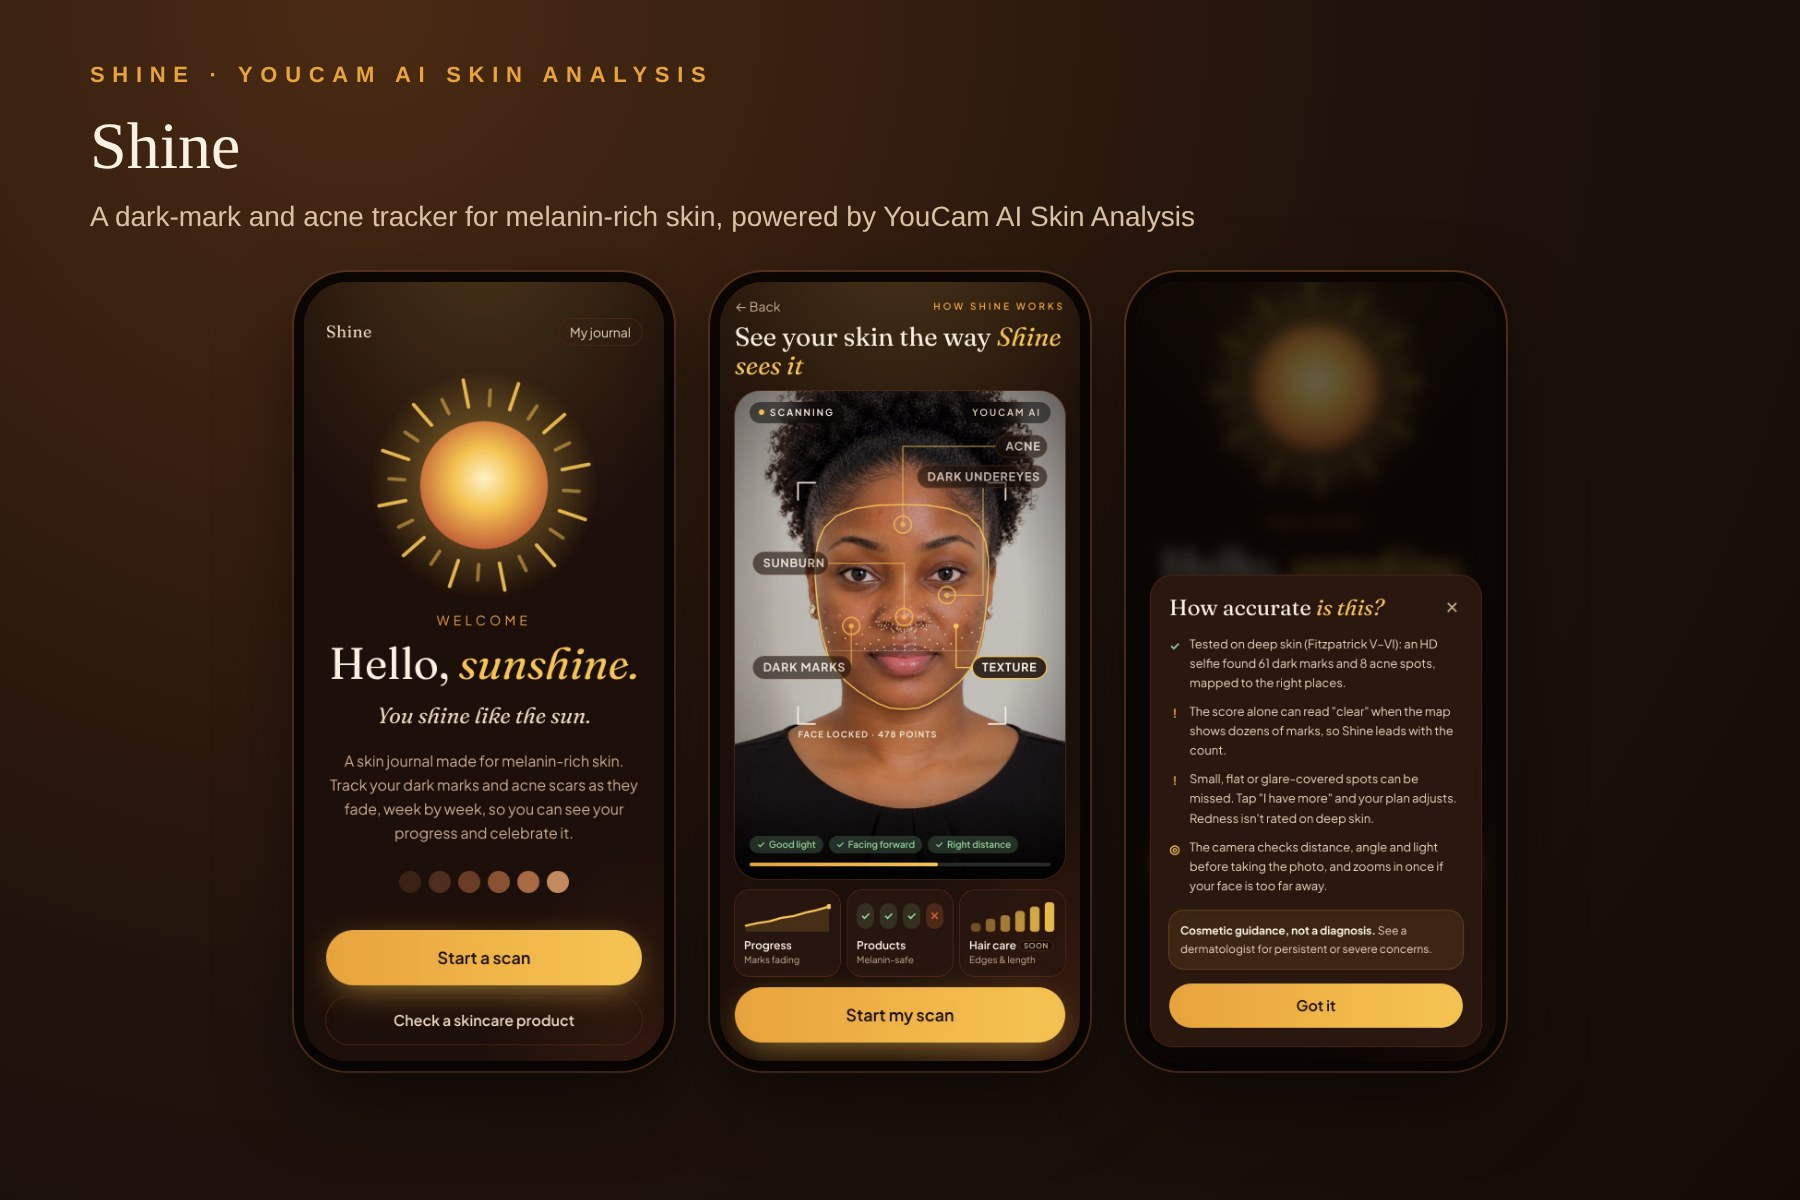
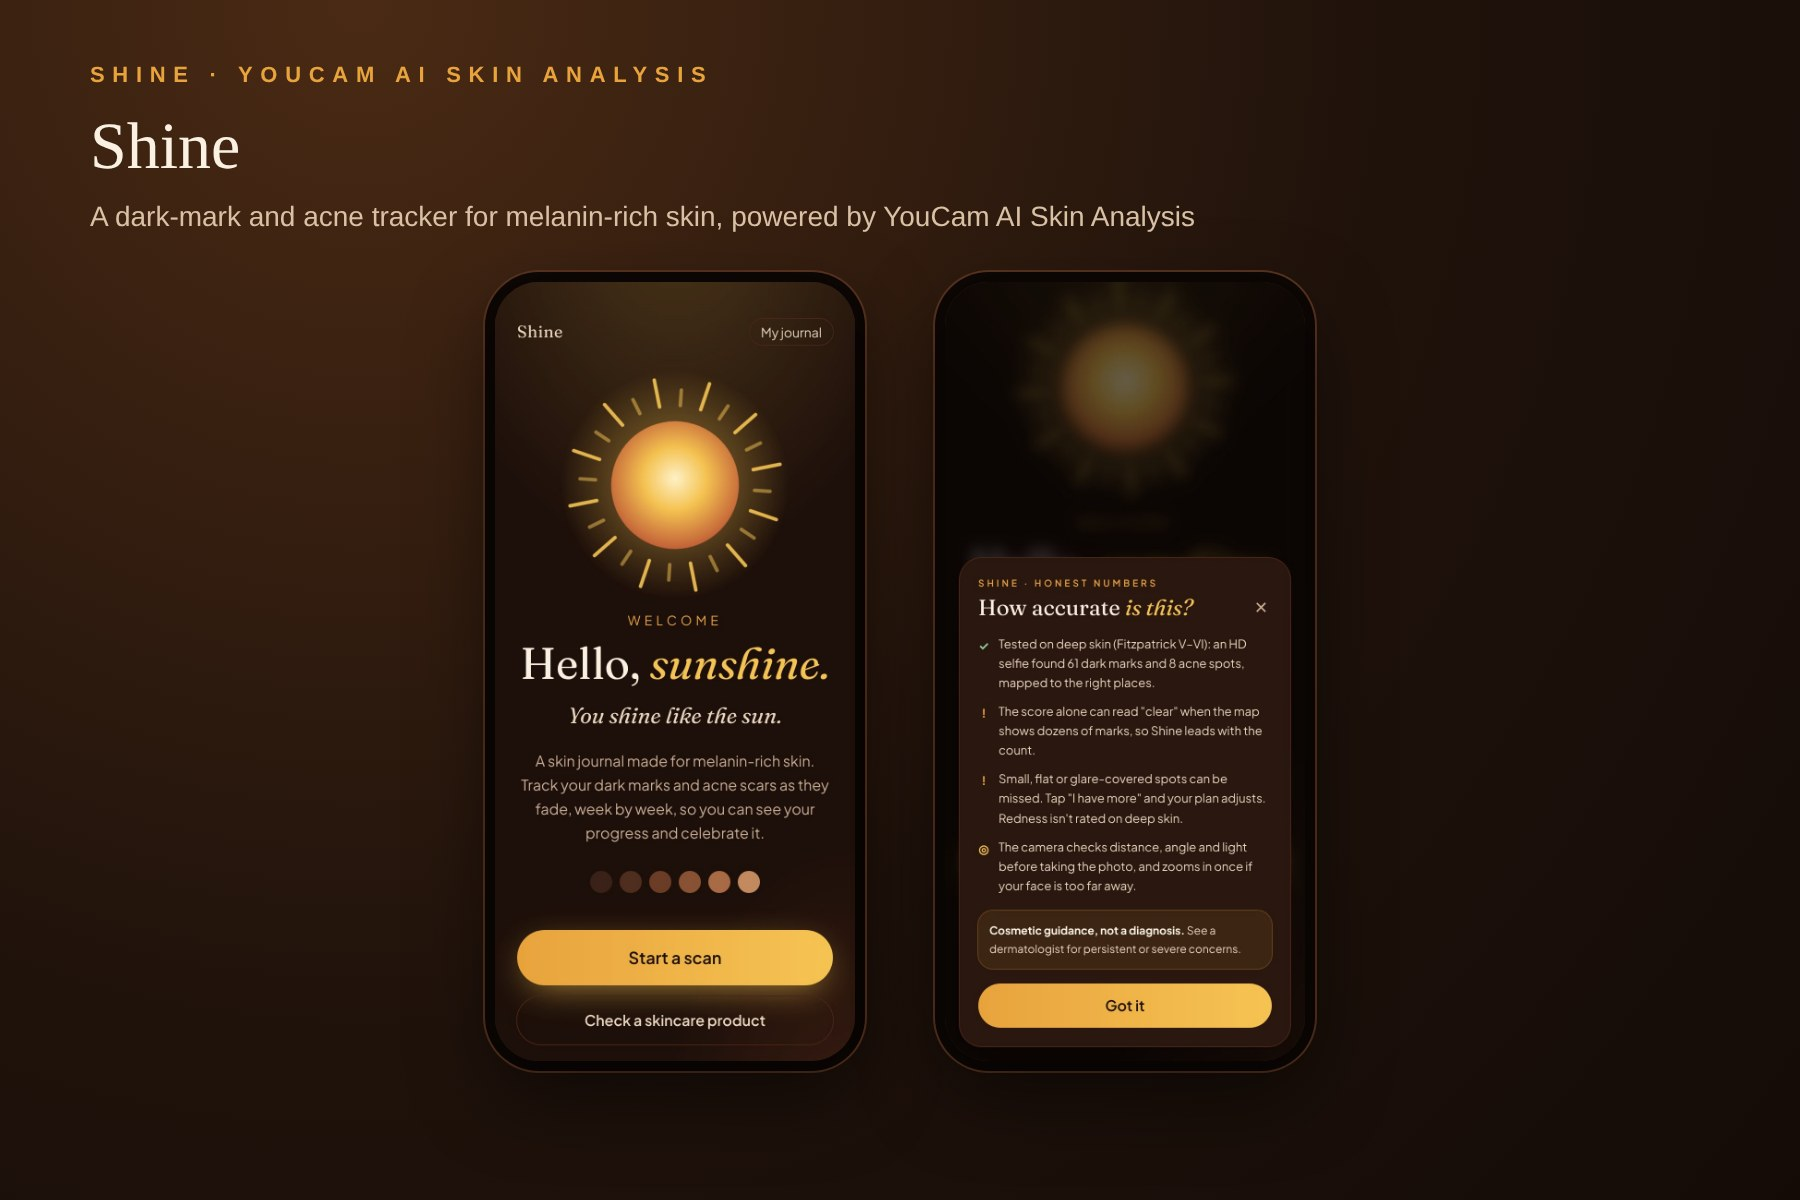
Gallery: app name on accuracy card, two-screen intro without face mesh, reminders slide
Claude-Session: https://claude.ai/code/session_01N8oTqHrqLUfRzdNpk9BPEt

Changed region(s): [[0.1556, 0.2158, 0.84, 0.8942]]

diff --git a/src/components/Accuracy.tsx b/src/components/Accuracy.tsx
@@ -31,7 +31,8 @@ export function Accuracy({ onClose }: { onClose: () => void }) {
         onClick={(e) => e.stopPropagation()}
         className="rise max-h-[80dvh] w-full max-w-sm overflow-y-auto rounded-3xl bg-cocoa p-5 shadow-2xl ring-1 ring-mahogany"
       >
-        <div className="flex items-start justify-between gap-3">
+        <p className="text-[10px] font-semibold uppercase tracking-[0.3em] text-honey">Shine · Honest numbers</p>
+        <div className="mt-1 flex items-start justify-between gap-3">
           <h2 id="accuracy-title" className="font-display text-2xl leading-tight">
             How accurate <em className="text-sun">is this?</em>
           </h2>
